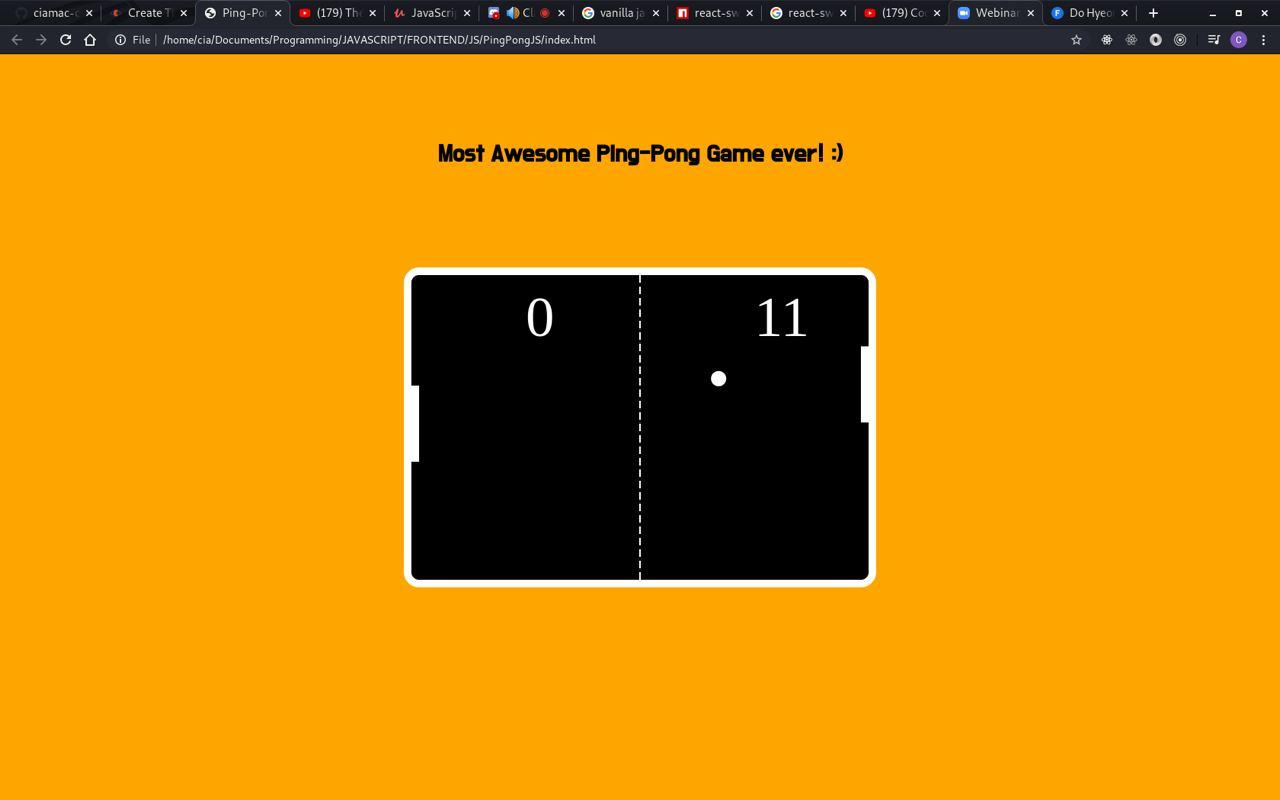
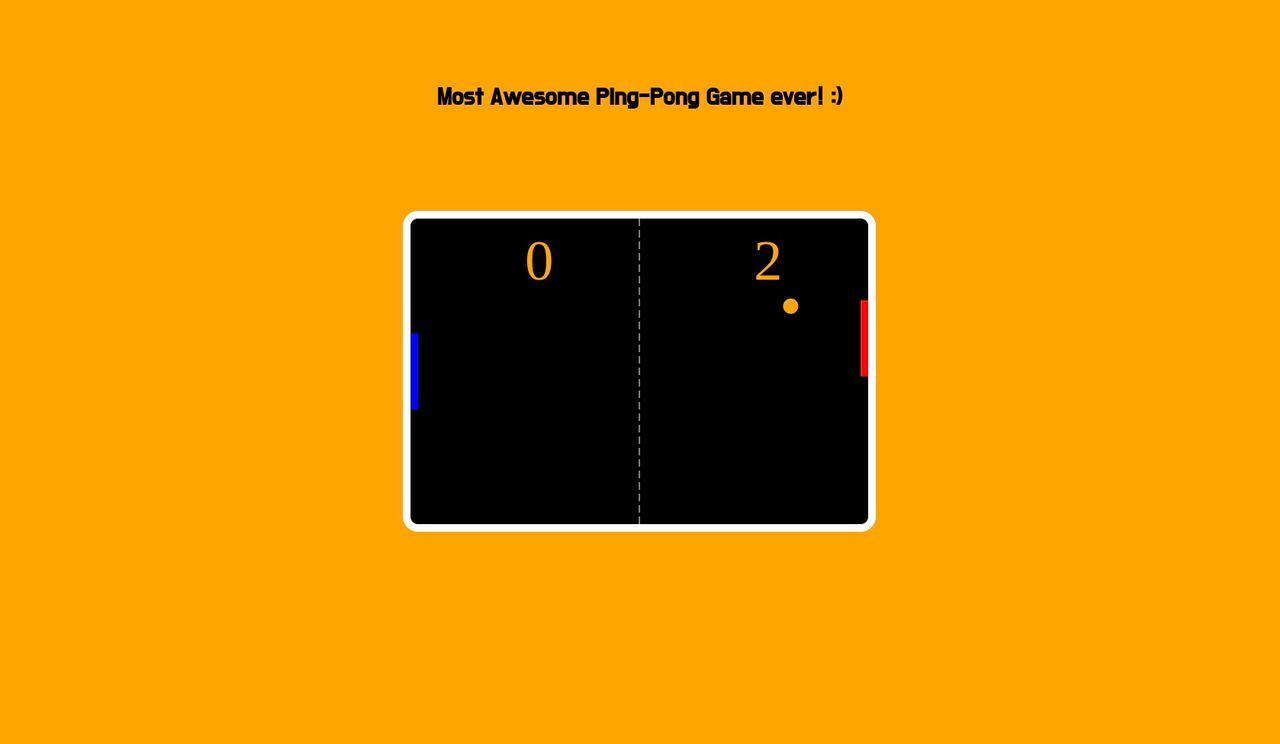
Verified by Cia V1.1.1

diff --git a/pong.js b/pong.js
@@ -23,7 +23,7 @@ const ball = {
     velocityX : 5,
     velocityY : 5,
     speed : 7,
-    color : "WHITE"
+    color : "ORANGE"
 }
 
 // User Paddle
@@ -31,9 +31,9 @@ const user = {
     x : 0, // left side of canvas
     y : (canvas.height - 100)/2, // -100 the height of paddle
     width : 10,
-    height : 100,
+    height : 50,
     score : 0,
-    color : "WHITE"
+    color : "BLUE"
 }
 
 // COM Paddle
@@ -41,9 +41,9 @@ const com = {
     x : canvas.width - 10, // - width of paddle
     y : (canvas.height - 100)/2, // -100 the height of paddle
     width : 10,
-    height : 100,
+    height : 50,
     score : 0,
-    color : "WHITE"
+    color : "RED"
 }
 
 // NET
@@ -52,7 +52,7 @@ const net = {
     y : 0,
     height : 10,
     width : 2,
-    color : "WHITE"
+    color : "GRAY"
 }
 
 // draw a rectangle, will be used to draw paddles
@@ -96,8 +96,8 @@ function drawNet(){
 
 // draw text
 function drawText(text,x,y){
-    ctx.fillStyle = "#FFF";
-    ctx.font = "75px fantasy";
+    ctx.fillStyle = "ORANGE";
+    ctx.font = "50px fantasy";
     ctx.fillText(text, x, y);
 }
 

diff --git a/index.html b/index.html
@@ -10,7 +10,7 @@
 <body>
     <div class="divv">
         <h1>Most Awesome Ping-Pong Game ever! :)</h1>
-        <canvas id="pong" width="600" height="400"></canvas>
+        <canvas id="pong" width="400" height="200"></canvas>
     </div>
     <script src="./pong.js"></script>
 </body>

diff --git a/style.css b/style.css
@@ -20,4 +20,5 @@ body{
     display: flex;
     justify-content: center;
     margin-top: 90px;
+    text-align: center;
 }
